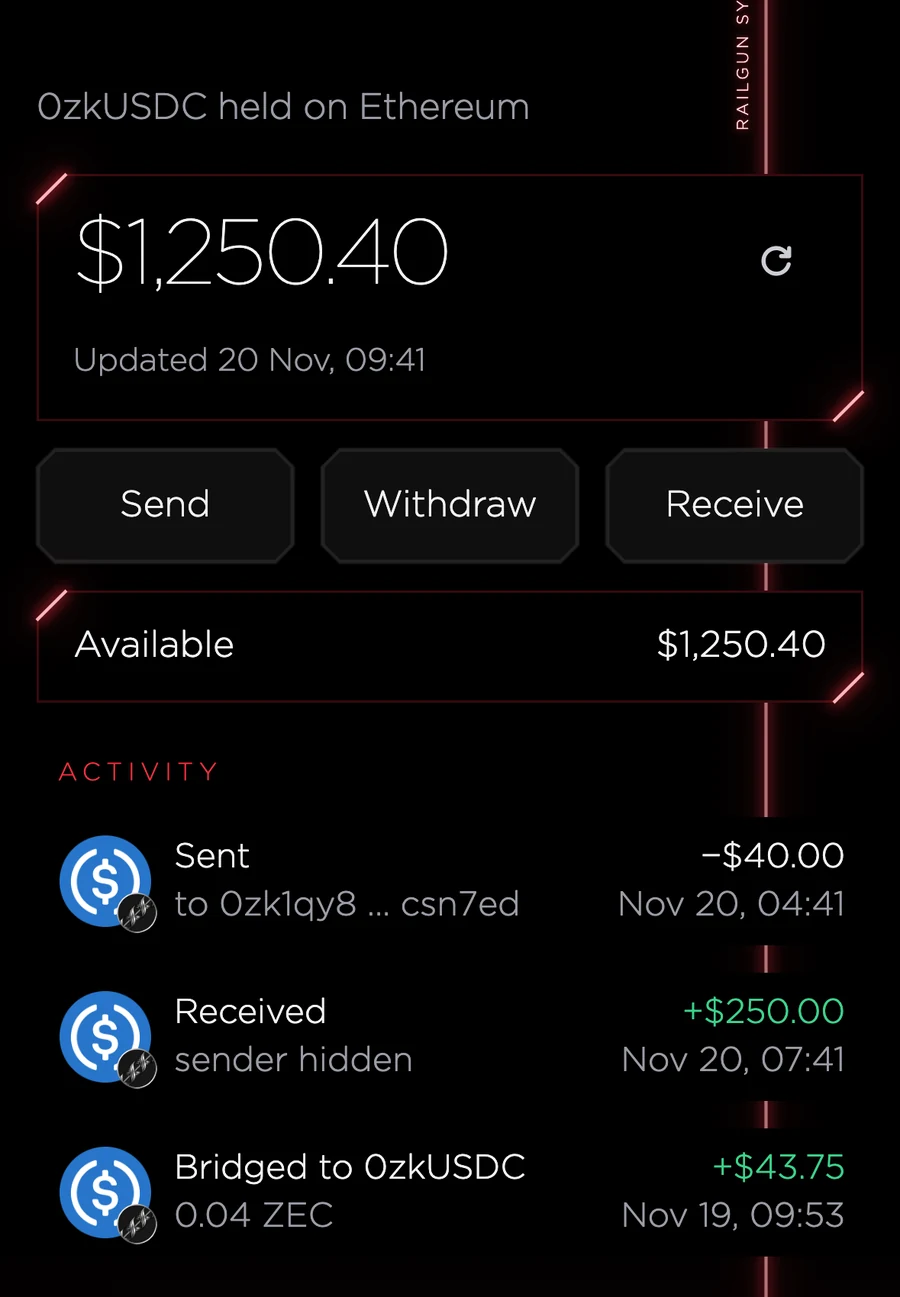
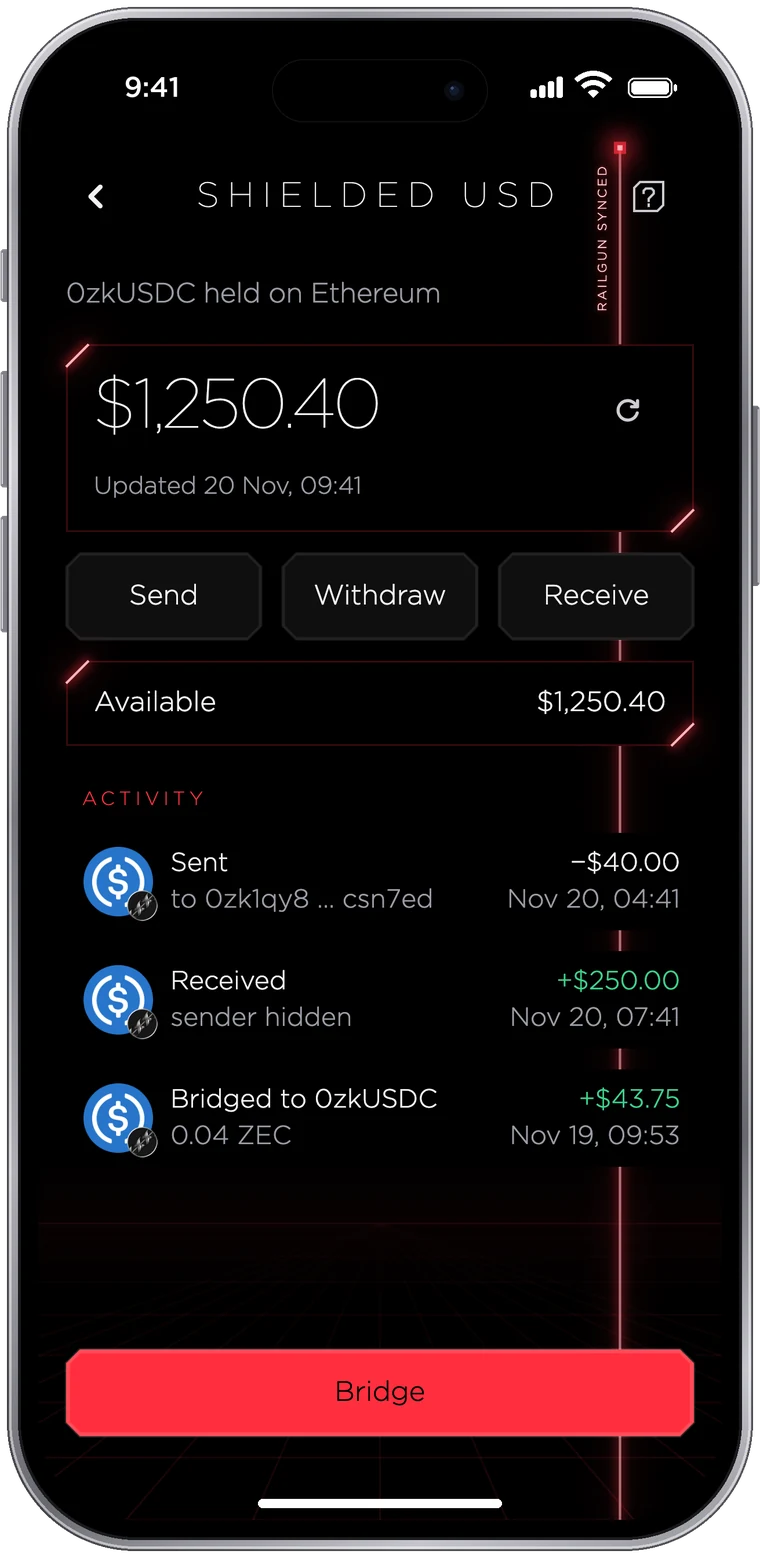
Home: the app's screens in a laptop and a phone, and they stand still
The screenshots' frames took the class of the hero's light packets, and with it
their animation, so they moved. They have classes of their own now, and device
frames: a laptop with the Veylor window, a phone before it, and a phone with the
0zkUSDC screen beside Railgun, under a tag that replaces the pool box. The
frames are drawn by tools/frame-screens.py.

diff --git a/index.html b/index.html
@@ -108,19 +108,16 @@
   <section class="section" id="wallet" aria-labelledby="wallet-title">
     <p class="hud sec">A new kind of wallet</p>
     <h2 class="title" id="wallet-title">Hold, send and swap ZEC and 0zkUSDC atomically.</h2>
-    <div class="band top">
-      <p class="prose reveal">Both live in one open-source wallet, backed by verifiable atomic swaps on Ethereum and Zcash.</p>
-      <ul class="ticks reveal">
+    <p class="prose reveal">Both live in one open-source wallet, backed by verifiable atomic swaps on Ethereum and Zcash.</p>
+    <ul class="ticks two reveal">
       <li><strong>Native shielded ZEC.</strong> Held in Zcash&rsquo;s own shielded pool, private by default.</li>
       <li><strong>0zkUSDC through Railgun.</strong> USDC shielded on Ethereum, at your own private 0zk address.</li>
       <li><strong>A bridge built in.</strong> Swap one for the other without leaving the app, with no custodian.</li>
       <li><strong>One recovery phrase.</strong> It restores both, so keep a copy offline.</li>
-      </ul>
-    </div>
+    </ul>
     <figure class="app-shots reveal">
-      <div class="shot shot-desk plate"><img src="/art/app-desktop.webp" width="2160" height="1400" alt="Veylor on desktop: a shielded ZEC balance with its chart, Send and Receive, and recent shielded activity" loading="lazy" decoding="async"></div>
-      <div class="shot shot-phone plate"><img src="/art/app-phone.webp" width="786" height="1624" alt="Veylor on a phone: the same balance, with Send, Receive and Swap" loading="lazy" decoding="async"></div>
-      <figcaption class="fine">The app itself, with sample balances.</figcaption>
+      <img class="device-laptop" src="/art/app-desktop.webp" width="2240" height="1297" alt="Veylor on a laptop: a shielded ZEC balance with its chart, Send and Receive, and recent shielded activity" loading="lazy" decoding="async">
+      <img class="device-phone" src="/art/app-phone.webp" width="660" height="1353" alt="Veylor on a phone: the same balance, with Send, Receive and Swap" loading="lazy" decoding="async">
     </figure>
   </section>
 
@@ -279,21 +276,16 @@
 
   <section class="section" id="railgun" aria-labelledby="railgun-title">
     <div class="railgun">
-      <figure class="shot shot-0zk plate reveal"><img src="/art/app-0zkusdc.webp" width="900" height="1297" alt="0zkUSDC in Veylor: the balance, Send, Withdraw and Receive, and activity with the sender hidden" loading="lazy" decoding="async"></figure>
+      <figure class="device-0zk reveal">
+        <img src="/art/app-0zkusdc.webp" width="760" height="1558" alt="0zkUSDC in Veylor: the balance, Send, Withdraw and Receive, activity with the sender hidden, and Bridge" loading="lazy" decoding="async">
+        <figcaption class="device-tag asset plate"><span class="token-logo"><img src="/logos/usdc.webp" width="40" height="40" alt=""><img class="token-badge" src="/logos/railgun-badge.webp" width="18" height="18" alt=""></span><span class="asset-name">0zkUSDC</span><span class="asset-where">Shielded in Railgun</span></figcaption>
+      </figure>
       <div class="reveal">
         <p class="hud sec">Powered by Railgun</p>
         <h2 class="title" id="railgun-title">Your USDC stays shielded in Railgun.</h2>
         <div class="prose">
           <p>Railgun is a non-custodial privacy system for Ethereum. Zero-knowledge proofs keep tokens at private 0zk addresses.</p>
           <p>Veylor runs one inside the app, so there's no second wallet or seed. Learn more at <a href="https://railgun.org/">railgun.org</a>.</p>
-        </div>
-        <div class="pool plate">
-          <span class="token-logo"><img src="/logos/usdc.webp" width="52" height="52" alt=""><img class="token-badge" src="/logos/railgun-badge.webp" width="23" height="23" alt=""></span>
-          <span class="pool-text">
-            <span class="hud">The pool Veylor uses</span>
-            <span class="pool-name">0zkUSDC</span>
-            <span class="pool-desc">USDC in Railgun's shielded pool. It carries Railgun's badge in the app.</span>
-          </span>
         </div>
       </div>
     </div>

diff --git a/site.css b/site.css
@@ -513,14 +513,6 @@ main > .section + .section::after {
 /* ---------- Railgun ---------- */
 .railgun { display: grid; gap: 32px; align-items: center; }
 @media (min-width: 760px) { .railgun { grid-template-columns: minmax(0, 340px) minmax(0, 1fr); gap: 64px; } }
-.pool {
-  display: grid; grid-template-columns: auto minmax(0, 1fr); column-gap: 18px; align-items: center;
-  max-width: 560px; margin-top: 28px; padding: 16px 20px 16px 18px; --edge: var(--lit-edge); --fill: #0b0607;
-}
-.pool .token-logo { width: 52px; height: 52px; }
-.pool-text { display: block; min-width: 0; }
-.pool-name { display: block; margin-top: 4px; font-weight: 100; font-size: 26px; line-height: 1.15; color: #fff; }
-.pool-desc { display: block; margin-top: 4px; font-size: 14px; line-height: 1.5; color: var(--muted); }
 
 /* ---------- Get Veylor ---------- */
 .beta { text-align: center; }
@@ -1072,22 +1064,17 @@ a.badge:hover { text-decoration: none; background: rgba(255, 46, 62, 0.24); }
 .term .link-hud { margin: 4px 22px 0; font-size: 11px; }
 
 /* ---------- The app's own screens, from its capture tool, with sample data ---------- */
-.band.top { align-items: start; }
-.band.top .ticks { margin-top: 4px; }
-.app-shots { position: relative; margin: 56px 0 0; }
-.shot { margin: 0; --c: 18px; --edge: var(--lit-edge); --fill: #000; --in: 10px; padding: var(--in); }
-.shot img {
-  display: block; width: 100%; height: auto; --k: calc(var(--c) - var(--in));
-  clip-path: polygon(var(--k) 0, 100% 0, 100% calc(100% - var(--k)), calc(100% - var(--k)) 100%, 0 100%, 0 var(--k));
-}
-.shot-desk { width: 89%; filter: drop-shadow(0 24px 60px rgba(255, 46, 62, 0.2)); }
-.shot.shot-phone { position: absolute; right: 0; bottom: -18px; width: 25.5%; --c: 24px; --in: 9px; --fill: #060304; filter: drop-shadow(-16px 20px 36px rgba(0, 0, 0, 0.95)) drop-shadow(0 0 28px rgba(255, 46, 62, 0.3)); }
-.app-shots .fine { margin-top: 20px; }
-.shot-0zk { width: 100%; max-width: 340px; justify-self: center; filter: drop-shadow(0 20px 50px rgba(255, 46, 62, 0.18)); }
-/* The screen runs on past both edges. */
-.shot-0zk img { -webkit-mask-image: linear-gradient(to bottom, transparent, #000 7%, #000 88%, transparent); mask-image: linear-gradient(to bottom, transparent, #000 7%, #000 88%, transparent); }
+.ticks.two { max-width: none; gap: 16px 56px; }
+@media (min-width: 760px) { .ticks.two { grid-template-columns: 1fr 1fr; } }
+.app-shots { position: relative; isolation: isolate; margin: 60px 0 0; }
+.app-shots::before { content: ""; position: absolute; z-index: -1; left: 0; right: 0; bottom: 0; height: 70%; background: radial-gradient(46% 62% at 48% 66%, rgba(255, 46, 62, 0.32), rgba(255, 46, 62, 0.1) 55%, transparent 100%); }
+.device-laptop { display: block; width: 95%; height: auto; }
+.device-phone { position: absolute; right: 0; bottom: -22px; width: 21.5%; height: auto; filter: drop-shadow(-14px 18px 28px rgba(0, 0, 0, 0.9)); }
+.device-0zk { position: relative; margin: 0; width: 86%; max-width: 306px; justify-self: center; filter: drop-shadow(0 18px 46px rgba(255, 46, 62, 0.22)); }
+.device-0zk > img { display: block; width: 100%; height: auto; }
+/* A tag pinned across the phone, over its screen's own title. */
+.device-tag.asset { position: absolute; left: -8%; right: -8%; top: 8.7%; height: 12.4%; padding: 0 18px; align-content: center; --c: 12px; --fill: linear-gradient(90deg, #1a050a, #0b0607 70%); filter: drop-shadow(0 0 16px rgba(255, 46, 62, 0.42)); }
 @media (max-width: 760px) {
-  .shot-desk { display: none; }
-  .shot.shot-phone { position: relative; bottom: auto; width: min(76vw, 290px); margin: 0 auto; }
-  .app-shots .fine { text-align: center; max-width: none; }
+  .device-laptop { display: none; }
+  .device-phone { position: static; display: block; width: min(70vw, 276px); margin: 0 auto; }
 }

diff --git a/tools/frame-screens.py b/tools/frame-screens.py
@@ -1,0 +1,142 @@
+#!/usr/bin/env python3
+"""Draws the app's captures inside a laptop and a phone, for the home page.
+
+The captures are the app's own, from `scripts/figma-compare.sh widget` in its
+repository, written at the screen's density (2x desktop, 3x phone). Never pass
+one of a real wallet. It needs Pillow and NumPy, and writes three transparent
+PNGs to --out:
+
+    python3 tools/frame-screens.py --fonts <app>/assets/fonts \\
+        --desktop desktop.png --phone home.png --token 0zkusdc.png --out .
+
+Then, for each: cwebp -q 88 -alpha_q 95 -m 6 app-x.png -o art/app-x.webp
+"""
+from PIL import Image, ImageDraw, ImageFilter, ImageFont, ImageChops
+import argparse, math, pathlib
+import numpy as np
+F = ''
+def rr(size,box,r,fill=255):
+    m=Image.new('L',size,0); ImageDraw.Draw(m).rounded_rectangle(box,radius=r,fill=fill); return m
+def lin(size,stops,angle):
+    """A linear gradient over size; stops: [(t,(r,g,b))], angle in degrees (0 = left to right)."""
+    w,h=size; yy,xx=np.mgrid[0:h,0:w]; a=math.radians(angle)
+    t=(xx*math.cos(a)+yy*math.sin(a)); t=(t-t.min())/(t.max()-t.min())
+    out=np.zeros((h,w,3))
+    for k in range(3): out[...,k]=np.interp(t,[s[0] for s in stops],[s[1][k] for s in stops])
+    return Image.fromarray(out.astype('uint8'),'RGB')
+def over(base,colour,mask):
+    layer=Image.new('RGBA',base.size,colour+(255,) if len(colour)==3 else colour); layer.putalpha(ImageChops.multiply(layer.getchannel('A'),mask)); base.alpha_composite(layer)
+def put(base,img,mask,xy=(0,0)):
+    l=Image.new('RGBA',base.size,(0,0,0,0)); l.paste(img,xy); a=Image.new('L',base.size,0); a.paste(mask,(0,0)); l.putalpha(ImageChops.multiply(l.getchannel('A'),a)); base.alpha_composite(l)
+
+def phone(src,dst,width):
+    shot=Image.open(src).convert('RGB'); sw,sh=shot.size          # 1179 x 2556, at 3x
+    bez,ring,pad=30,24,12
+    W=sw+2*(bez+ring+pad); H=sh+2*(bez+ring+pad)
+    out=Image.new('RGBA',(W,H),(0,0,0,0)); d=ImageDraw.Draw(out)
+    x0=y0=pad; x1=W-pad-1; y1=H-pad-1; R=168+bez+ring
+    # the buttons, behind the body
+    for (bx,a,b) in ((0,430,520),(0,640,840),(0,890,1090)):
+        d.rounded_rectangle((bx+1,a,pad+10,b),radius=5,fill=(128,128,134,255)); d.line((bx+3,a+6,bx+3,b-6),fill=(214,214,220,255),width=2)
+    d.rounded_rectangle((W-pad-10,700,W-2,1010),radius=5,fill=(112,112,118,255)); d.line((W-4,706,W-4,1004),fill=(190,190,197,255),width=2)
+    # the metal ring
+    metal=lin((W,H),[(0,(236,236,240)),(0.1,(150,150,157)),(0.24,(206,206,212)),(0.42,(118,118,125)),(0.6,(176,176,183)),(0.78,(104,104,111)),(0.9,(198,198,205)),(1,(140,140,147))],62)
+    put(out,metal,rr((W,H),(x0,y0,x1,y1),R))
+    over(out,(255,255,255),ImageChops.subtract(rr((W,H),(x0+4,y0+4,x1-4,y1-4),R-4),rr((W,H),(x0+8,y0+8,x1-8,y1-8),R-8)).point(lambda v:int(v*0.5)))
+    over(out,(40,40,44),ImageChops.subtract(rr((W,H),(x0,y0,x1,y1),R),rr((W,H),(x0+3,y0+3,x1-3,y1-3),R-3)).point(lambda v:int(v*0.75)))
+    over(out,(26,26,28),rr((W,H),(x0+ring-5,y0+ring-5,x1-ring+5,y1-ring+5),R-ring+5))
+    # the glass
+    over(out,(0,0,0),rr((W,H),(x0+ring,y0+ring,x1-ring,y1-ring),R-ring))
+    sx=x0+ring+bez; sy=y0+ring+bez
+    put(out,shot,rr((W,H),(sx,sy,sx+sw-1,sy+sh-1),168),(sx,sy))
+    # the island, its lens, and the status bar
+    iw,ih=372,108; ix=sx+(sw-iw)//2; iy=sy+36
+    over(out,(0,0,0),rr((W,H),(ix,iy,ix+iw,iy+ih),ih//2)); over(out,(255,255,255),ImageChops.subtract(rr((W,H),(ix,iy,ix+iw,iy+ih),ih//2),rr((W,H),(ix+2,iy+2,ix+iw-2,iy+ih-2),ih//2-2)).point(lambda v:int(v*0.07)))
+    lx,ly,lr=ix+iw-58,iy+ih//2,17
+    d=ImageDraw.Draw(out); d.ellipse((lx-lr,ly-lr,lx+lr,ly+lr),fill=(9,11,18,255)); d.ellipse((lx-8,ly-8,lx+8,ly+8),fill=(18,26,46,255)); d.ellipse((lx-6,ly-7,lx-1,ly-2),fill=(60,80,120,255))
+    f=ImageFont.truetype(F+'Gotham-Medium.otf',48); d.text((sx+148,sy+66),'9:41',font=f,fill=(255,255,255,255),anchor='lt')
+    bx=sx+sw-330; by=sy+66
+    for k,hh in enumerate((14,21,28,36)): d.rounded_rectangle((bx+k*15,by+36-hh,bx+k*15+10,by+36),radius=3,fill=(255,255,255,255))
+    wx,wy=bx+108,by+36
+    for rad,wd in ((46,9),(30,9)): d.arc((wx-rad,wy-rad,wx+rad,wy+rad),225,315,fill=(255,255,255,255),width=wd)
+    d.pieslice((wx-13,wy-13,wx+13,wy+13),225,315,fill=(255,255,255,255))
+    ex,ey=bx+168,by+2
+    d.rounded_rectangle((ex,ey,ex+76,ey+34),radius=11,outline=(255,255,255,120),width=3); d.rounded_rectangle((ex+6,ey+6,ex+70,ey+28),radius=6,fill=(255,255,255,255)); d.rounded_rectangle((ex+79,ey+11,ex+84,ey+23),radius=3,fill=(255,255,255,120))
+    hw=420; d.rounded_rectangle((sx+(sw-hw)//2,sy+sh-36,sx+(sw+hw)//2,sy+sh-21),radius=8,fill=(255,255,255,215))
+    out=out.resize((width,int(H*width/W)),Image.LANCZOS); out.save(dst); print(dst.split('/')[-1],out.size)
+
+def laptop(src,dst,width):
+    shot=Image.open(src).convert('RGB')
+    W,H=2480,1500; out=Image.new('RGBA',(W,H),(0,0,0,0))
+    lx0,ly0,lx1,ly1=250,14,W-250,1330
+    # the lid: a bright edge, then black
+    edge=lin((W,H),[(0,(214,214,220)),(0.25,(150,150,157)),(0.5,(196,196,203)),(0.8,(128,128,135)),(1,(190,190,197))],20)
+    lid=rr((W,H),(lx0,ly0,lx1,ly1+60),54); put(out,edge,lid)
+    over(out,(30,30,33),rr((W,H),(lx0+7,ly0+7,lx1-7,ly1+60),48)); over(out,(2,2,3),rr((W,H),(lx0+11,ly0+11,lx1-11,ly1+60),44))
+    sx0,sy0,sx1,sy1=lx0+32,ly0+32,lx1-32,ly1-44; SW,SH=sx1-sx0,sy1-sy0
+    # the wallpaper: night, a low sun, a horizon and a floor
+    wp=lin((SW,SH),[(0,(10,2,8)),(0.45,(48,5,18)),(0.72,(120,10,28)),(0.74,(16,1,5)),(1,(4,0,2))],90).convert('RGBA')
+    hz=int(SH*0.73)
+    g=Image.new('L',(SW,SH),0); ImageDraw.Draw(g).ellipse((SW/2-760,hz-760,SW/2+760,hz+760),fill=170); g=g.filter(ImageFilter.GaussianBlur(170))
+    l=Image.new('RGBA',(SW,SH),(255,46,62,255)); l.putalpha(g); wp.alpha_composite(l)
+    sun=lin((SW,SH),[(0,(255,190,170)),(0.3,(255,120,110)),(0.6,(255,46,62)),(1,(190,12,32))],90)
+    sr=470; m=Image.new('L',(SW,SH),0); dm=ImageDraw.Draw(m); dm.ellipse((SW/2-sr,hz-sr,SW/2+sr,hz+sr),fill=255)
+    for (a,b) in ((0.36,0.385),(0.49,0.53),(0.62,0.68),(0.76,0.84)): dm.rectangle((0,hz-sr+sr*a,SW,hz-sr+sr*b),fill=0)
+    dm.rectangle((0,hz,SW,SH),fill=0); s2=sun.crop((0,0,SW,SH)).convert('RGBA'); s2.putalpha(m); wp.alpha_composite(s2)
+    fl=Image.new('RGBA',(SW,SH),(0,0,0,0)); df=ImageDraw.Draw(fl)
+    for k in range(-40,41): df.line((SW/2+k*26,hz,SW/2+k*330,SH+120),fill=(255,60,76,105),width=2)
+    yv=hz; step=5.0
+    while yv<SH: df.line((0,yv,SW,yv),fill=(255,60,76,95),width=2); yv+=step; step*=1.34
+    fl=fl.filter(ImageFilter.GaussianBlur(0.8)); wp.alpha_composite(fl)
+    ImageDraw.Draw(wp).line((0,hz,SW,hz),fill=(255,150,155,255),width=3)
+    # the menu bar
+    bar=Image.new('RGBA',(SW,SH),(0,0,0,0)); ImageDraw.Draw(bar).rectangle((0,0,SW,40),fill=(6,1,4,150)); wp.alpha_composite(bar)
+    dw=ImageDraw.Draw(wp); fb=ImageFont.truetype(F+'Gotham-Medium.otf',21); fr=ImageFont.truetype(F+'Gotham-Book.otf',21)
+    dw.text((34,20),'Veylor',font=fb,fill=(255,255,255,245),anchor='lm'); dw.text((128,20),'File',font=fr,fill=(255,255,255,225),anchor='lm'); dw.text((190,20),'Window',font=fr,fill=(255,255,255,225),anchor='lm'); dw.text((292,20),'Help',font=fr,fill=(255,255,255,225),anchor='lm')
+    dw.text((SW-34,20),'Fri Nov 20  9:41 AM',font=fr,fill=(255,255,255,235),anchor='rm')
+    ex=SW-330; dw.rounded_rectangle((ex,12,ex+34,28),radius=5,outline=(255,255,255,190),width=2); dw.rounded_rectangle((ex+4,16,ex+26,24),radius=2,fill=(255,255,255,235)); dw.rounded_rectangle((ex+36,17,ex+38,23),radius=1,fill=(255,255,255,190))
+    wx,wy=ex-34,27
+    for rad in (16,10): dw.arc((wx-rad,wy-rad,wx+rad,wy+rad),225,315,fill=(255,255,255,235),width=3)
+    dw.pieslice((wx-4,wy-4,wx+4,wy+4),225,315,fill=(255,255,255,235))
+    # the window: its shadow, the app, an edge, the traffic lights
+    ww=int(SW*0.82); wh=int(ww*shot.size[1]/shot.size[0]); wx0=(SW-ww)//2; wy0=40+(SH-40-wh)//2
+    sh=Image.new('L',(SW,SH),0); ImageDraw.Draw(sh).rounded_rectangle((wx0,wy0+26,wx0+ww,wy0+wh+26),radius=26,fill=235); sh=sh.filter(ImageFilter.GaussianBlur(34))
+    l=Image.new('RGBA',(SW,SH),(0,0,0,255)); l.putalpha(sh); wp.alpha_composite(l)
+    win=shot.resize((ww,wh),Image.LANCZOS); wm=rr((ww,wh),(0,0,ww-1,wh-1),24); wp.paste(win,(wx0,wy0),wm)
+    line=ImageChops.subtract(rr((SW,SH),(wx0,wy0,wx0+ww-1,wy0+wh-1),24),rr((SW,SH),(wx0+2,wy0+2,wx0+ww-3,wy0+wh-3),22)).point(lambda v:int(v*0.34))
+    l=Image.new('RGBA',(SW,SH),(255,255,255,255)); l.putalpha(line); wp.alpha_composite(l)
+    dw=ImageDraw.Draw(wp); k=ww/1000
+    for n,c in enumerate(((255,95,87),(254,188,46),(40,200,64))):
+        cx,cy,r=wx0+(34+n*20)*k,wy0+29*k,6.2*k; dw.ellipse((cx-r,cy-r,cx+r,cy+r),fill=c+(255,))
+    put(out,wp.convert('RGB'),rr((W,H),(sx0,sy0,sx1-1,sy1-1),16),(sx0,sy0))
+    # the notch and its camera
+    d=ImageDraw.Draw(out); nw=236; nx=W//2-nw//2
+    over(out,(2,2,3),rr((W,H),(nx,sy0-20,nx+nw,sy0+36),14)); d=ImageDraw.Draw(out); d.ellipse((W//2-6,sy0+9,W//2+6,sy0+21),fill=(14,18,30,255)); d.ellipse((W//2-2,sy0+12,W//2+1,sy0+15),fill=(58,74,112,255))
+    # the base
+    by0=ly1; by1=by0+98
+    base=Image.new('L',(W,H),0); db=ImageDraw.Draw(base); db.rounded_rectangle((20,by0-60,W-20,by1),radius=60,fill=255); db.rectangle((0,0,W,by0-1),fill=0)
+    metal=lin((W,H),[(0,(96,96,102)),(0.012,(236,236,240)),(0.03,(138,138,145)),(0.06,(112,112,118)),(0.5,(134,134,141)),(0.94,(112,112,118)),(0.97,(138,138,145)),(0.988,(236,236,240)),(1,(96,96,102))],0)
+    put(out,metal,base)
+    shade=lin((W,H),[(0,(0,0,0)),(1,(0,0,0))],90).convert('RGBA'); a=np.zeros((H,W)); yy=np.arange(H)[:,None]; a+=np.clip((yy-by0)/(by1-by0),0,1)**1.5*178; sm=Image.fromarray(a.astype('uint8'),'L'); shade.putalpha(ImageChops.multiply(sm,base)); out.alpha_composite(shade)
+    over(out,(210,210,218),ImageChops.multiply(base,rr((W,H),(20,by0,W-20,by0+3),0)).point(lambda v:int(v*0.6)))
+    lip=rr((W,H),(W//2-215,by0-40,W//2+215,by0+27),24); lm=ImageChops.multiply(lip,base); put(out,lin((W,H),[(0,(58,58,62)),(0.5,(172,172,179)),(1,(58,58,62))],0),lm)
+    over(out,(0,0,0),ImageChops.multiply(rr((W,H),(W//2-215,by0,W//2+215,by0+6),0),base).point(lambda v:int(v*0.5)))
+    out=out.crop((0,0,W,by1+8)); out=out.resize((width,int(out.size[1]*width/W)),Image.LANCZOS); out.save(dst); print(dst.split('/')[-1],out.size)
+
+
+def main():
+    global F
+    parser = argparse.ArgumentParser(description=__doc__.split("\n")[0])
+    for name in ("fonts", "desktop", "phone", "token"):
+        parser.add_argument(f"--{name}", required=True)
+    parser.add_argument("--out", default=".")
+    args = parser.parse_args()
+    F = args.fonts.rstrip("/") + "/"
+    out = pathlib.Path(args.out)
+    laptop(args.desktop, str(out / "app-desktop.png"), 2240)
+    phone(args.phone, str(out / "app-phone.png"), 660)
+    phone(args.token, str(out / "app-0zkusdc.png"), 760)
+
+
+if __name__ == "__main__":
+    main()

diff --git a/README.md b/README.md
@@ -11,7 +11,7 @@ HTML, no build step.
 | `privacy/index.html` | https://veylor.cash/privacy/ |
 | `support-veylor/index.html` | https://veylor.cash/support-veylor/: the ZEC donation address and its QR code (see below), linked from every footer |
 | `releases/index.html` | https://veylor.cash/releases/: every release, each file with its size, SHA-256 and build attestation, how to check a download, and each release's notes. Written by `tools/build-releases.py`, never by hand (below) |
-| `tools/` | `build-releases.py`, which writes the releases page, and `releases.json`, the words it can't take from GitHub |
+| `tools/` | `build-releases.py`, which writes the releases page, `releases.json`, the words it can't take from GitHub, and `frame-screens.py`, which draws the devices around the app's screens |
 | `site.css`, `site.js` | shared look and motion: the tube wordmark, the sun and grid, the packets that shoot along the grid into the distance (the home page's hero, CSS alone), the top bar (frosted once the page scrolls), the film over the page (grain, scanlines, vignette), the cards that tilt toward the pointer, the scroll's sync line, the diagrams that draw in on scroll, the how-it-works stage, the footer's sign, and the press sounds |
 | `art/helmet.webp` | the helmet in the footer, cut out of the app icon (`ios/Runner/Assets.xcassets/AppIcon.appiconset/Icon-App-1024x1024@1x.png` in the app's repository) with its visor's light taken out: the footer draws that itself |
 | `fonts/` | Gotham Thin and Light, subset from the app's files (see below), and Montserrat (SIL Open Font License, `fonts/OFL.txt`) behind them; self-hosted so the site makes no third-party requests |
@@ -108,12 +108,14 @@ both here, and decode the new QR code to check it before you push.
 ## The app's screens
 
 `art/app-*.webp` are the app's real screens, drawn by its own capture tool
-(`scripts/figma-compare.sh widget` in the app's repository) from fixtures: no
-wallet, server or phone is involved, and every balance, address and date is a
-sample, which the caption says. Never publish a capture of a real wallet. Their
-amounts are consistent with each other and inside the bridge's cap, and they are
-cropped clear of the app's "Shielded USD" title ("Names"). When the app's look
-changes, capture them again.
+(`scripts/figma-compare.sh widget` in the app's repository) from fixtures, then
+framed by `tools/frame-screens.py`: no wallet, server or phone is involved, and
+every balance, address and date is a sample. Never publish a capture of a real
+wallet. The amounts agree with each other and stay
+inside the bridge's cap. The laptop and phone are drawn, with no maker's logo or
+other app's icon. On the 0zkUSDC phone the page's own tag (`.device-tag`) lies
+over the screen's title, which still reads "Shielded USD" ("Names"). When the
+app's look changes, capture them again.
 
 ## The Morpho and Aave marks
 
